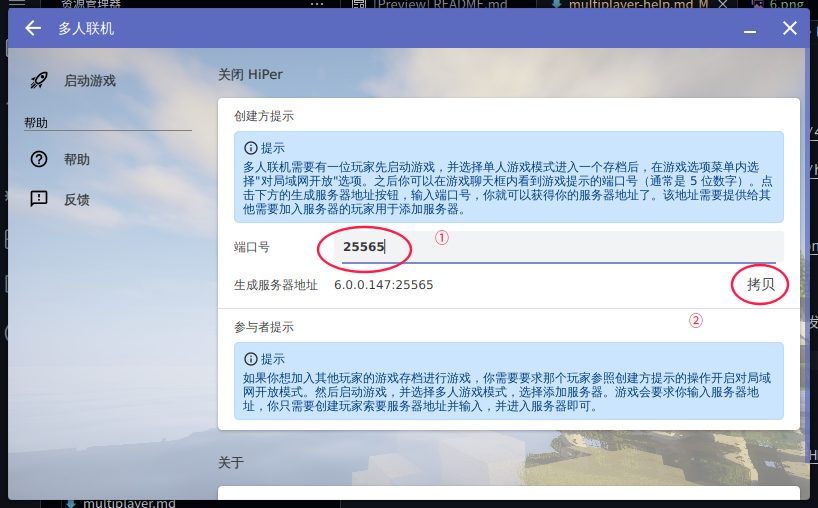
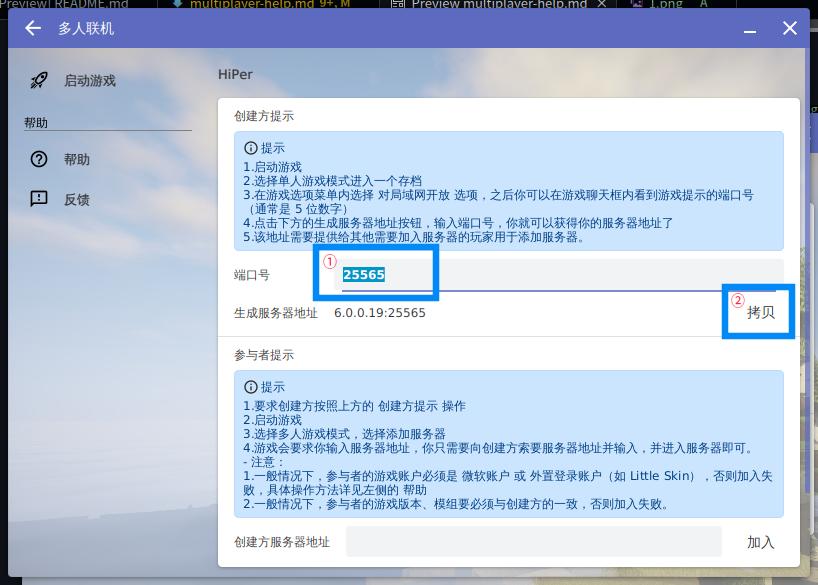
add

diff --git a/_multiplayer/multiplayer-help.md b/_multiplayer/multiplayer-help.md
@@ -119,24 +119,22 @@ sudo java -jar HMCl.jar
 ![将开放的端口输入至 端口号 输入框中，之后在点击拷贝，将其发送给参与者](/assets/img/docs/multiplayer/help/7.png)
 
 
-
 ### 参与者
 
 #### 二、启动游戏
 
 点击多人联机页面的“启动游戏”即可
 
-#### 三、选择多人游戏模式，选择添加服务器
+#### 三、在“创建方服务器地址”中输入创建方发来的服务器地址，并点击加入
 
-点击“多人游戏”，“添加服务器”
+在“创建方服务器地址”中输入创建方发来的服务器地址
 
-游戏会要求你输入服务器地址，你只需要向创建方索要服务器地址并输入，并进入服务器即可。
-![输入服务器地址](/assets/img/docs/multiplayer/help/8.png)
+[输入创建方发来的服务器地址](/assets/img/docs/multiplayer/help/8.png)
 
-## 注意
+#### 三、选择多人游戏模式，加入房间
 
-1.一般情况下，参与者的游戏账户必须是** 微软账户 或 外置登录账户（如 Little Skin）**，否则加入失败，具体操作方法详见[此处](multiplayer/account.html)
+点击“多人游戏”，不出意外你会在“本地局域网检测”中找到HMCL房间（HMCL Multiplayer Session），进入服务器即可。
 
-2.一般情况下，参与者的游戏版本、模组要必须与创建方的一致，否则加入失败。
+## 反馈
 
-3.[若遇到问题，可以加入 官方交流QQ群（HiPer）获得帮助](/multiplayer/feedback.html)
+[若遇到问题，可以加入 官方交流QQ群（HiPer）获得帮助](/multiplayer/feedback.html)
